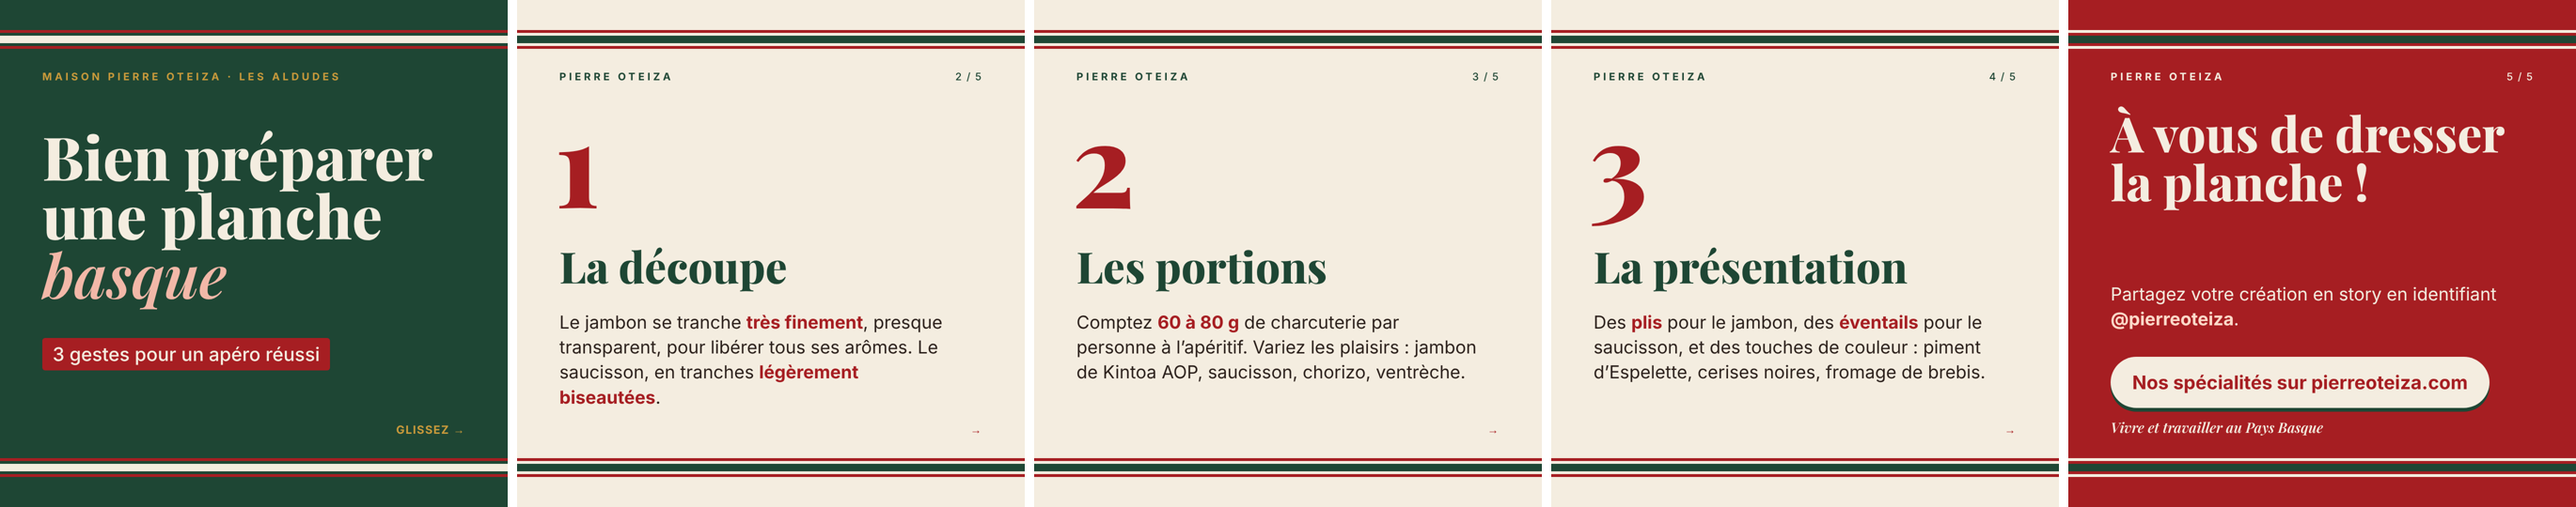
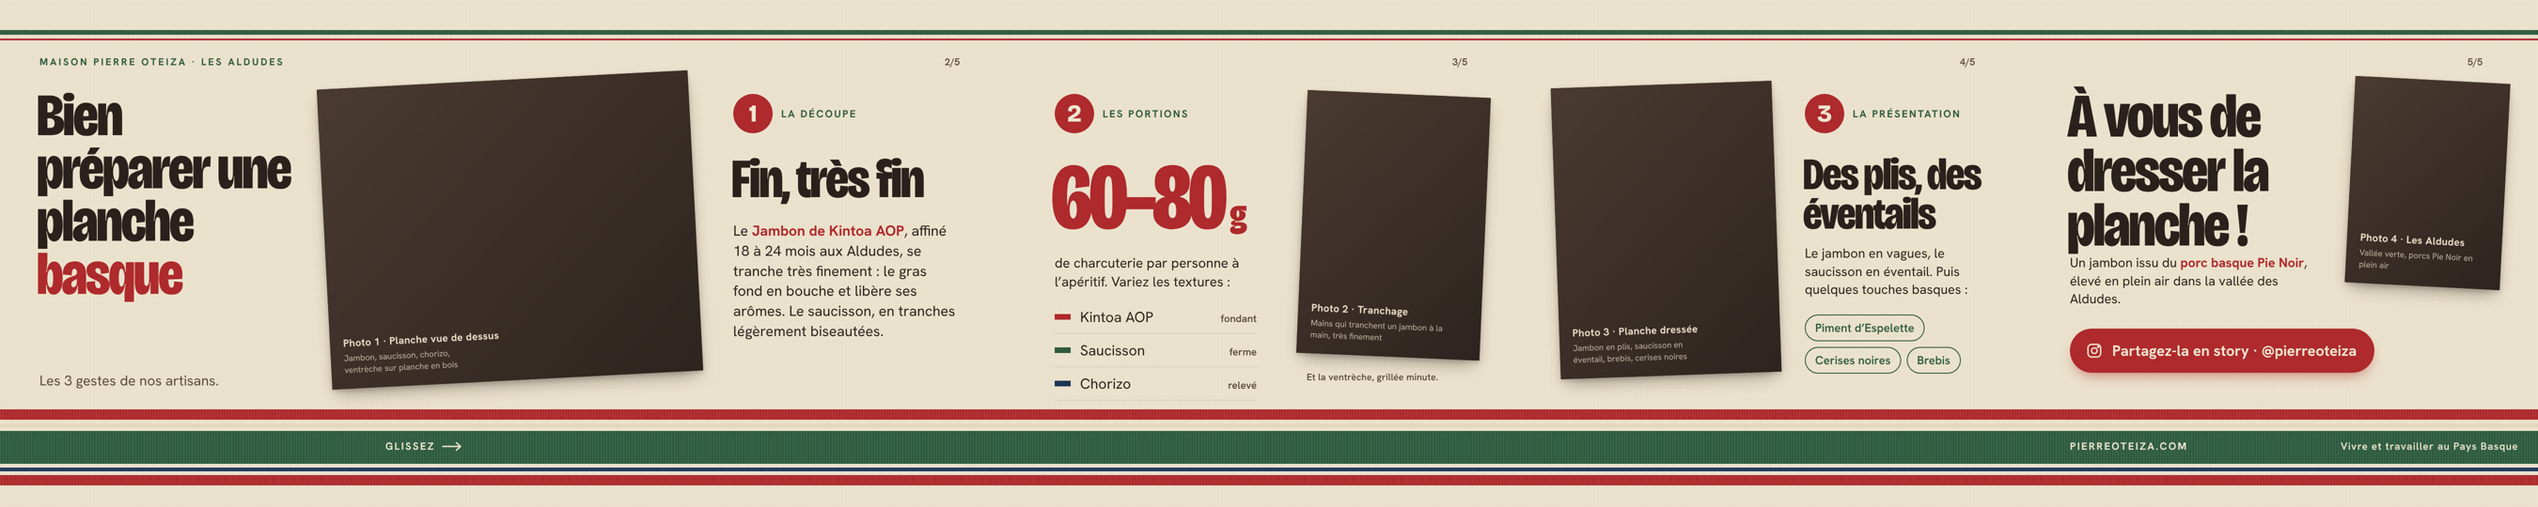
Refait le carrousel Pierre Oteiza : linge basque continu sur 5 slides, texte enrichi, emplacements photo et prompts
Claude-Session: https://claude.ai/code/session_01M4KwiYuPc6C6YeqYRujdKa

diff --git a/oteiza-prototype/carrousel.html b/oteiza-prototype/carrousel.html
@@ -1,89 +1,138 @@
 <!doctype html>
 <html lang="fr"><head><meta charset="utf-8">
-<link href="https://fonts.googleapis.com/css2?family=Playfair+Display:ital,wght@0,600;0,800;1,600&family=Inter:wght@400;500;700&display=swap" rel="stylesheet">
+<title>Carrousel planche basque</title>
+<link href="https://fonts.googleapis.com/css2?family=Bricolage+Grotesque:opsz,wdth,wght@12..96,75..100,400..800&family=Hanken+Grotesk:wght@400;500;600;700&display=swap" rel="stylesheet">
 <style>
-:root{--rouge:#A61E22;--vert:#1E4634;--creme:#F4EDE0;--encre:#2A1F1A;--or:#C99A3B}
+:root{
+  --ecru:#EEE5D0; --ecru-ombre:#E2D6BC;
+  --garance:#AE2A2C; --vert:#2E5B3F; --nuit:#1F3557;
+  --encre:#2B211C; --encre-douce:#5A4A3F;
+}
 *{margin:0;padding:0;box-sizing:border-box}
-body{background:#888}
-.slide{width:1080px;height:1080px;position:relative;overflow:hidden;background:var(--creme);color:var(--encre);font-family:Inter,sans-serif;margin-bottom:20px}
-/* bande toile basque */
-.toile{position:absolute;left:0;right:0;height:56px;background:
- linear-gradient(to bottom,var(--creme) 0 8px,var(--rouge) 8px 14px,var(--creme) 14px 20px,var(--vert) 20px 36px,var(--creme) 36px 42px,var(--rouge) 42px 48px,var(--creme) 48px 56px)}
-.toile.bas{bottom:56px}
-.toile.haut{top:56px}
-.marque{position:absolute;top:150px;left:90px;font-size:22px;letter-spacing:.28em;text-transform:uppercase;font-weight:700;color:var(--vert)}
-.pager{position:absolute;top:150px;right:90px;font-size:22px;font-weight:500;color:var(--vert);letter-spacing:.1em}
-.num{font-family:'Playfair Display',serif;font-weight:800;font-size:250px;line-height:.8;color:var(--rouge);position:absolute;left:80px;top:240px}
-h2{font-family:'Playfair Display',serif;font-weight:800;font-size:92px;line-height:1;color:var(--vert);position:absolute;left:90px;top:520px}
-.txt{position:absolute;left:90px;top:660px;width:860px;font-size:38px;line-height:1.4}
-.txt b{color:var(--rouge)}
-.suite{position:absolute;bottom:150px;right:90px;font-size:24px;font-weight:700;color:var(--rouge);letter-spacing:.08em}
-/* couverture */
-.cover{background:var(--vert);color:var(--creme)}
-.cover .toile{background:linear-gradient(to bottom,var(--vert) 0 8px,var(--rouge) 8px 14px,var(--vert) 14px 20px,var(--creme) 20px 36px,var(--vert) 36px 42px,var(--rouge) 42px 48px,var(--vert) 48px 56px)}
-.cover .marque{color:var(--or)}
-.cover h1{font-family:'Playfair Display',serif;font-weight:800;font-size:128px;line-height:.98;position:absolute;left:90px;top:270px;width:900px}
-.cover h1 em{font-style:italic;font-weight:600;color:#F2B8A8}
-.cover .sous{position:absolute;left:90px;top:720px;font-size:40px;font-weight:500}
-.cover .sous span{display:inline-block;background:var(--rouge);padding:10px 22px;border-radius:6px}
-.cover .suite{color:var(--or)}
+html,body{background:#777}
+::selection{background:var(--garance);color:var(--ecru)}
+
+/* Un seul linge déroulé : 5 slides × 1080 */
+.linge{width:5400px;height:1080px;position:relative;overflow:hidden;color:var(--encre);
+  font-family:'Hanken Grotesk',sans-serif;
+  background:
+    repeating-linear-gradient(0deg,rgba(90,70,50,.05) 0 1px,transparent 1px 4px),
+    repeating-linear-gradient(90deg,rgba(90,70,50,.045) 0 1px,transparent 1px 5px),
+    var(--ecru);}
+
+/* Bandes tissées, continues sur tout le carrousel */
+.bande{position:absolute;left:0;width:5400px}
+.bande::after{content:"";position:absolute;inset:0;
+  background:repeating-linear-gradient(90deg,rgba(255,255,255,.07) 0 2px,transparent 2px 6px)}
+.haut-1{top:64px;height:10px;background:var(--vert)}
+.haut-2{top:82px;height:4px;background:var(--garance)}
+.bas-1{top:872px;height:22px;background:var(--garance)}
+.bas-2{top:902px;height:8px;background:var(--ecru-ombre)}
+.bas-3{top:918px;height:70px;background:var(--vert)}
+.bas-4{top:996px;height:8px;background:var(--nuit)}
+.bas-5{top:1012px;height:22px;background:var(--garance)}
+
+/* Photos posées sur le linge */
+.photo{position:absolute;overflow:hidden;background:#3a2e27;
+  box-shadow:0 18px 36px -12px rgba(43,33,28,.45),0 4px 10px rgba(43,33,28,.18)}
+.photo img{width:100%;height:100%;object-fit:cover;display:block}
+.photo .vide{position:absolute;inset:0;display:flex;flex-direction:column;justify-content:flex-end;padding:28px;
+  background:linear-gradient(135deg,#4a3a30,#2d241f);color:#E9DCC4}
+.photo .vide b{font-weight:700;font-size:22px;letter-spacing:.02em}
+.photo .vide span{font-size:18px;opacity:.75;margin-top:6px;max-width:28ch;line-height:1.35}
+.legende{position:absolute;font-size:20px;font-weight:600;color:var(--encre-douce);letter-spacing:.01em}
+
+/* Typo */
+.titre{position:absolute;font-family:'Bricolage Grotesque',sans-serif;font-weight:800;
+  font-variation-settings:"wdth" 80,"opsz" 96;letter-spacing:-.03em;line-height:.88;color:var(--encre)}
+.titre em{font-style:normal;color:var(--garance)}
+.corps{position:absolute;font-size:33px;line-height:1.38;color:var(--encre)}
+.corps strong{font-weight:700;color:var(--garance)}
+.etape{position:absolute;display:flex;align-items:center;gap:18px}
+.etape .n{width:84px;height:84px;border-radius:50%;background:var(--garance);color:var(--ecru);
+  font-family:'Bricolage Grotesque';font-weight:800;font-size:52px;display:flex;align-items:center;justify-content:center}
+.etape .l{font-weight:700;font-size:22px;letter-spacing:.14em;text-transform:uppercase;color:var(--vert)}
+.signature{position:absolute;top:118px;font-weight:700;font-size:21px;letter-spacing:.2em;text-transform:uppercase;color:var(--vert)}
+.page{position:absolute;top:118px;font-weight:600;font-size:21px;color:var(--encre-douce);font-variant-numeric:tabular-nums}
+
+/* Portions */
+.grammes{position:absolute;font-family:'Bricolage Grotesque';font-weight:800;font-variation-settings:"wdth" 75,"opsz" 96;
+  font-size:250px;letter-spacing:-.04em;line-height:.8;color:var(--garance)}
+.grammes small{font-size:90px;letter-spacing:-.02em}
+.liste{position:absolute;list-style:none}
+.liste li{display:flex;align-items:baseline;gap:20px;font-size:31px;padding:15px 0;border-bottom:1.5px solid rgba(43,33,28,.18)}
+.liste li i{flex:none;width:34px;height:12px;align-self:center;font-style:normal}
+.liste li span{margin-left:auto;font-size:22px;color:var(--encre-douce);font-weight:600}
+
+/* Accompagnements */
+.accomp{position:absolute;display:flex;flex-wrap:wrap;gap:12px}
+.accomp span{font-size:25px;font-weight:600;padding:10px 20px;border-radius:999px;border:2px solid var(--vert);color:var(--vert)}
+
 /* CTA */
-.cta{background:var(--rouge);color:var(--creme)}
-.cta .toile{background:linear-gradient(to bottom,var(--rouge) 0 8px,var(--creme) 8px 14px,var(--rouge) 14px 20px,var(--vert) 20px 36px,var(--rouge) 36px 42px,var(--creme) 42px 48px,var(--rouge) 48px 56px)}
-.cta .marque,.cta .pager{color:var(--creme)}
-.cta h2{color:var(--creme);top:230px;font-size:104px;width:900px}
-.cta .txt{top:600px;font-size:38px}
-.cta .txt b{color:#FFD9C9}
-.bouton{position:absolute;left:90px;top:760px;background:var(--creme);color:var(--rouge);font-weight:700;font-size:40px;padding:30px 46px;border-radius:999px;box-shadow:0 8px 0 var(--vert)}
-.signature{position:absolute;left:90px;bottom:150px;font-family:'Playfair Display',serif;font-style:italic;font-size:30px}
+.cta{position:absolute;display:flex;align-items:center;gap:20px;background:var(--garance);color:var(--ecru);
+  padding:26px 38px 26px 34px;border-radius:999px;font-weight:700;font-size:32px;
+  box-shadow:0 14px 28px -10px rgba(174,42,44,.55)}
+.cta svg{flex:none}
+.swipe{position:absolute;display:flex;align-items:center;gap:14px;font-weight:700;font-size:22px;letter-spacing:.14em;text-transform:uppercase;color:var(--ecru)}
 </style></head><body>
+<div class="linge" id="linge">
+  <div class="bande haut-1"></div><div class="bande haut-2"></div>
+  <div class="bande bas-1"></div><div class="bande bas-2"></div><div class="bande bas-3"></div><div class="bande bas-4"></div><div class="bande bas-5"></div>
 
-<section class="slide cover" id="s1">
- <div class="toile haut"></div>
- <div class="marque">Maison Pierre Oteiza · Les Aldudes</div>
- <h1>Bien préparer une planche <em>basque</em></h1>
- <div class="sous"><span>3 gestes pour un apéro réussi</span></div>
- <div class="suite">GLISSEZ →</div>
- <div class="toile bas"></div>
-</section>
+  <!-- ===== SLIDE 1 : couverture ===== -->
+  <div class="signature" style="left:84px">Maison Pierre Oteiza · Les Aldudes</div>
+  <h1 class="titre" style="left:78px;top:190px;font-size:128px;width:560px">Bien préparer une planche <em>basque</em></h1>
+  <p class="corps" style="left:84px;top:790px;width:560px;font-size:30px;color:var(--encre-douce)">Les 3 gestes de nos artisans.</p>
+  <!-- planche à cheval sur les slides 1 et 2 -->
+  <div class="photo" data-src="img/planche.jpg" style="left:690px;top:170px;width:790px;height:640px;transform:rotate(-3deg)">
+    <div class="vide"><b>Photo 1 · Planche vue de dessus</b><span>Jambon, saucisson, chorizo, ventrèche sur planche en bois</span></div></div>
+  <div class="swipe" style="left:820px;top:936px">Glissez
+    <svg width="44" height="20" viewBox="0 0 44 20" fill="none" stroke="currentColor" stroke-width="3" stroke-linecap="round" stroke-linejoin="round"><path d="M2 10h38M31 2l9 8-9 8"/></svg></div>
 
-<section class="slide" id="s2">
- <div class="toile haut"></div>
- <div class="marque">Pierre Oteiza</div><div class="pager">2 / 5</div>
- <div class="num">1</div>
- <h2>La découpe</h2>
- <p class="txt">Le jambon se tranche <b>très finement</b>, presque transparent, pour libérer tous ses arômes. Le saucisson, en tranches <b>légèrement biseautées</b>.</p>
- <div class="suite">→</div>
- <div class="toile bas"></div>
-</section>
+  <!-- ===== SLIDE 2 : découpe ===== -->
+  <div class="page" style="left:2010px">2/5</div>
+  <div class="etape" style="left:1560px;top:200px"><div class="n">1</div><div class="l">La découpe</div></div>
+  <h2 class="titre" style="left:1556px;top:330px;font-size:118px;width:520px">Fin, très fin</h2>
+  <p class="corps" style="left:1560px;top:470px;width:480px;font-size:31px">Le <strong>Jambon de Kintoa AOP</strong>, affiné 18 à 24 mois aux Aldudes, se tranche très finement : le gras fond en bouche et libère ses arômes. Le saucisson, en tranches légèrement biseautées.</p>
 
-<section class="slide" id="s3">
- <div class="toile haut"></div>
- <div class="marque">Pierre Oteiza</div><div class="pager">3 / 5</div>
- <div class="num">2</div>
- <h2>Les portions</h2>
- <p class="txt">Comptez <b>60 à 80 g</b> de charcuterie par personne à l’apéritif. Variez les plaisirs : jambon de Kintoa AOP, saucisson, chorizo, ventrèche.</p>
- <div class="suite">→</div>
- <div class="toile bas"></div>
-</section>
+  <!-- ===== SLIDE 3 : portions ===== -->
+  <div class="page" style="left:3090px">3/5</div>
+  <div class="etape" style="left:2244px;top:200px"><div class="n">2</div><div class="l">Les portions</div></div>
+  <div class="grammes" style="left:2236px;top:340px;font-size:200px">60–80<small> g</small></div>
+  <p class="corps" style="left:2244px;top:540px;width:420px;font-size:29px">de charcuterie par personne à l’apéritif. Variez les textures :</p>
+  <ul class="liste" style="left:2244px;top:640px;width:430px">
+    <li><i style="background:var(--garance)"></i>Kintoa AOP<span>fondant</span></li>
+    <li><i style="background:var(--vert)"></i>Saucisson<span>ferme</span></li>
+    <li><i style="background:var(--nuit)"></i>Chorizo<span>relevé</span></li>
+  </ul>
+  <div class="photo" data-src="img/tranches.jpg" style="left:2770px;top:200px;width:390px;height:560px;transform:rotate(2.5deg)">
+    <div class="vide"><b>Photo 2 · Tranchage</b><span>Mains qui tranchent un jambon à la main, très finement</span></div></div>
+  <div class="legende" style="left:2780px;top:790px">Et la ventrèche, grillée minute.</div>
 
-<section class="slide" id="s4">
- <div class="toile haut"></div>
- <div class="marque">Pierre Oteiza</div><div class="pager">4 / 5</div>
- <div class="num">3</div>
- <h2>La présentation</h2>
- <p class="txt">Des <b>plis</b> pour le jambon, des <b>éventails</b> pour le saucisson, et des touches de couleur : piment d’Espelette, cerises noires, fromage de brebis.</p>
- <div class="suite">→</div>
- <div class="toile bas"></div>
-</section>
+  <!-- ===== SLIDE 4 : présentation ===== -->
+  <div class="page" style="left:4170px">4/5</div>
+  <div class="photo" data-src="img/presentation.jpg" style="left:3310px;top:180px;width:470px;height:620px;transform:rotate(-2deg)">
+    <div class="vide"><b>Photo 3 · Planche dressée</b><span>Jambon en plis, saucisson en éventail, brebis, cerises noires</span></div></div>
+  <div class="etape" style="left:3840px;top:200px"><div class="n">3</div><div class="l">La présentation</div></div>
+  <h2 class="titre" style="left:3836px;top:330px;font-size:96px;width:440px">Des plis, des éventails</h2>
+  <p class="corps" style="left:3840px;top:520px;width:420px;font-size:28px">Le jambon en vagues, le saucisson en éventail. Puis quelques touches basques :</p>
+  <div class="accomp" style="left:3840px;top:670px;width:440px">
+    <span>Piment d’Espelette</span><span>Cerises noires</span><span>Brebis</span></div>
 
-<section class="slide cta" id="s5">
- <div class="toile haut"></div>
- <div class="marque">Pierre Oteiza</div><div class="pager">5 / 5</div>
- <h2>À vous de dresser la planche !</h2>
- <p class="txt">Partagez votre création en story en identifiant <b>@pierreoteiza</b>.</p>
- <div class="bouton">Nos spécialités sur pierreoteiza.com</div>
- <div class="signature">Vivre et travailler au Pays Basque</div>
- <div class="toile bas"></div>
-</section>
+  <!-- ===== SLIDE 5 : CTA ===== -->
+  <div class="page" style="left:5250px">5/5</div>
+  <h2 class="titre" style="left:4398px;top:190px;font-size:132px;width:600px">À vous de dresser la planche&nbsp;!</h2>
+  <p class="corps" style="left:4404px;top:540px;width:520px;font-size:28px">Un jambon issu du <strong>porc basque Pie Noir</strong>, élevé en plein air dans la vallée des Aldudes.</p>
+  <div class="cta" style="left:4404px;top:700px">
+    <svg width="36" height="36" viewBox="0 0 24 24" fill="none" stroke="currentColor" stroke-width="2" stroke-linecap="round" stroke-linejoin="round"><rect x="3" y="3" width="18" height="18" rx="5"/><circle cx="12" cy="12" r="4"/><circle cx="17.5" cy="6.5" r=".8" fill="currentColor"/></svg>
+    Partagez-la en story · @pierreoteiza</div>
+  <div class="photo" data-src="img/aldudes.jpg" style="left:5000px;top:170px;width:330px;height:440px;transform:rotate(3deg)">
+    <div class="vide"><b>Photo 4 · Les Aldudes</b><span>Vallée verte, porcs Pie Noir en plein air</span></div></div>
+  <div class="swipe" style="left:4404px;top:936px;color:var(--ecru)">pierreoteiza.com</div>
+  <div class="swipe" style="left:4980px;top:936px;color:var(--ecru);letter-spacing:.06em;text-transform:none;font-weight:600">Vivre et travailler au Pays Basque</div>
+</div>
+<script>
+document.querySelectorAll('.photo[data-src]').forEach(p=>{
+  const img=new Image();img.onload=()=>{p.innerHTML='';p.appendChild(img)};img.src=p.dataset.src;});
+</script>
 </body></html>

diff --git a/oteiza-prototype/fiche-prototype.md b/oteiza-prototype/fiche-prototype.md
@@ -2,24 +2,43 @@
 
 **Publication choisie :** carrousel Instagram « Bien préparer une planche basque »
 **Calendrier :** avril · Pilier 1 « Informer » · thème Recette (conseils de préparation)
-**Format :** post carré 1080×1080, 5 slides (`slide-1.png` à `slide-5.png`)
+**Format :** post carré 1080×1080, 5 slides (`slide-1.png` à `slide-5.png`, et `panorama.png` pour la vue d'ensemble)
 **Cible :** jeunes actifs urbains de 25 à 40 ans, amateurs de gastronomie
 
 ## Pourquoi cette publication ?
 - Elle **informe** sans vendre (respect de la règle 80/20) : on transmet un savoir-faire concret.
-- Elle modernise l'image de la Maison avec un format actuel (carrousel « tuto », très enregistré et partagé), sans trahir son ADN artisanal.
+- Elle modernise l'image de la Maison avec un format actuel (le carrousel « tuto » est très enregistré et partagé), sans trahir son ADN : l'origine (Kintoa AOP, porc basque Pie Noir, vallée des Aldudes) est racontée au fil des gestes.
 - Elle prépare la publication « Engager » de mai, « À vous de dresser la planche ».
+
+## Le concept : un linge basque qu'on déroule
+Les 5 slides forment **un seul torchon basque**. Les bandes rouge, verte et bleue courent sans interruption d'une slide à l'autre, donc on a l'impression de dérouler le linge en swipant. La photo de la planche est posée **à cheval sur les slides 1 et 2**, ce qui donne envie de faire glisser.
+
+| Slide | Contenu |
+|---|---|
+| 1 | Titre « Bien préparer une planche basque », grande photo de planche qui déborde, « Glissez → » |
+| 2 | ① La découpe : le Kintoa AOP, affiné 18 à 24 mois aux Aldudes, se tranche très finement |
+| 3 | ② Les portions : 60 à 80 g par personne et 3 textures (Kintoa fondant, saucisson ferme, chorizo relevé) |
+| 4 | ③ La présentation : plis, éventails et accompagnements basques (piment d'Espelette, cerises noires, brebis) |
+| 5 | CTA : « À vous de dresser la planche ! », porc Pie Noir élevé en plein air, bouton « Partagez-la en story · @pierreoteiza », pierreoteiza.com |
 
 ## Règles de composition appliquées
 | Règle | Application |
 |---|---|
-| **Hiérarchie visuelle** | 1 grand chiffre → 1 titre → 3 lignes de texte maximum. L'œil lit dans l'ordre, une idée par slide. |
-| **Cohérence des couleurs** | 3 couleurs seulement : rouge basque `#A61E22`, vert sombre `#1E4634`, crème `#F4EDE0`. La couverture est verte, les slides de contenu crème et le CTA rouge. |
-| **Identité de marque** | Bandes inspirées du **linge basque** en haut et en bas de chaque slide, comme fil conducteur. Signature « Vivre et travailler au Pays Basque ». |
-| **Lisibilité** | Titres en serif (Playfair Display), qui donnent un caractère artisanal et premium, et texte en sans-serif (Inter) de 38 px, lisible sur mobile. Contraste fort entre le fond et le texte. Les mots-clés sont en gras rouge. |
-| **CTA visible** | La dernière slide est rouge pour se démarquer, avec un bouton crème « Nos spécialités sur pierreoteiza.com » et une invitation à identifier @pierreoteiza en story. « GLISSEZ → » en couverture incite à faire défiler. |
+| **Hiérarchie visuelle** | Sur chaque slide : l'étape numérotée, puis un titre très gras et serré, puis 3 à 5 lignes de texte. Une idée par slide. |
+| **Cohérence des couleurs** | Les couleurs du linge basque : écru, rouge garance `#AE2A2C`, vert `#2E5B3F` et bleu nuit `#1F3557`. Le rouge sert à l'accent (chiffres, mots-clés, CTA). |
+| **Identité de marque** | Le linge basque comme matière, avec une trame tissée en fond. Signature « Vivre et travailler au Pays Basque ». |
+| **Lisibilité** | Titres en Bricolage Grotesque très gras, texte en Hanken Grotesk de 28 à 33 px, lisible sur mobile. Texte foncé sur fond écru, avec un fort contraste. |
+| **CTA visible** | Un bouton rouge plein avec une icône Instagram sur la dernière slide. |
+
+## Photos à insérer
+Les emplacements photo sont prévus. Il suffit de déposer les images dans `img/` avec ces noms, puis de relancer le rendu (ou de me les envoyer). Les prompts suivants servent à les générer avec ChatGPT, Gemini ou Canva :
+
+1. **`img/planche.jpg`** (paysage 5:4) : *Photographie culinaire vue de dessus, planche en bois ancienne avec du jambon sec basque tranché très finement et plié en vagues, saucisson en éventail, chorizo, ventrèche, fromage de brebis, confiture de cerises noires, posée sur un torchon basque rayé rouge et vert. Lumière naturelle douce, tons chauds, aucune marque ni texte.*
+2. **`img/tranches.jpg`** (portrait 3:4) : *Gros plan sur les mains d'un artisan charcutier qui tranche à la main un jambon sec posé sur un support en bois, tranches presque transparentes, atelier rustique, lumière latérale chaude, aucune marque.*
+3. **`img/presentation.jpg`** (portrait 3:4) : *Détail d'une planche apéritive basque dressée : jambon en plis, rondelles de saucisson en éventail, piment d'Espelette, cerises noires, brebis, sur bois, vue en plongée à 45°, ambiance conviviale, aucune marque.*
+4. **`img/aldudes.jpg`** (portrait 3:4) : *Vallée verdoyante des Pyrénées basques au printemps, prairies en pente, cochons basques noirs et roses élevés en plein air, petit village aux maisons blanches à volets rouges, lumière du matin.*
 
 ## Légende Instagram proposée
 > Une belle planche, ça se prépare 🔪 Découpe, portions, présentation : les 3 gestes de nos artisans pour un apéro réussi.
-> Enregistrez ce post pour votre prochain apéro et montrez-nous votre planche en story en identifiant @pierreoteiza ✨
+> Enregistrez ce post pour votre prochain apéro, et montrez-nous votre planche en story en identifiant @pierreoteiza ✨
 > #PierreOteiza #PaysBasque #Aldudes #Kintoa #PlancheApero #ApéroBasque #Charcuterie #Terroir

diff --git a/PRODUCT.md b/PRODUCT.md
@@ -1,0 +1,41 @@
+# Product
+
+<!-- impeccable:product-schema 1 -->
+
+## Platform
+
+web
+
+## Stack
+
+Static HTML/CSS rendered to PNG with Playwright (delegated: social media assets, no app).
+
+## Users
+
+Students' client case: Maison Pierre Oteiza's social media audience. Primary target to win: urban 25-40 year-olds who love food and care about origin and traceability. Existing loyal base: 35-65 gastronomy lovers, Basque Country locals, tourists.
+
+## Product Purpose
+
+Maison Pierre Oteiza (Les Aldudes, Pays Basque, founded 1987 by Pierre and Catherine Oteiza; son Frantxoa joined) makes and sells artisanal Basque charcuterie. The communication goal: modernise the brand's voice and grow digital visibility with a younger generation without losing authenticity, artisanal know-how and territorial roots.
+
+## Positioning
+
+Premium Basque gastronomic house: exceptional product × Basque terroir × human story. Pierre Oteiza helped save the Basque Pie Noir pig breed from extinction (late 1980s); the Jambon de Kintoa obtained AOP status in 2019 and is cured 18 to 24 months in the collective drying room of the Aldudes valley. Pigs are raised outdoors.
+
+## Operating Context
+
+Instagram carousel posts (square 1080×1080) from the editorial calendar (pillars: Informer, Inspirer, Engager). Shops in Les Aldudes, Ainhoa, Saint-Jean-de-Luz, Capbreton, Biarritz, Bayonne, Bordeaux, Paris; e-commerce at pierreoteiza.com.
+
+## Brand Commitments
+
+Slogan: « Vivre et travailler au Pays Basque ». Products: Jambon de Kintoa AOP, Jambon de la Vallée des Aldudes, Jambon de Bayonne IGP, saucisson, chorizo, ventrèche, conserves.
+
+## Evidence on Hand
+
+Brief and corrected case study (uploaded .odt). No real photography available in this environment; image generation tools are disabled. Any photo slot must be filled by the user; never fabricate prices, awards or claims beyond the brief.
+
+## Product Principles
+
+- Tell the story, not just the product: territory, breed, people, gestures.
+- Modern format, authentic substance: real people and real gestures over trends.
+- Inform before selling (80/20 rule).

diff --git a/.impeccable/surfaces/oteiza-prototype-carrousel-html.md b/.impeccable/surfaces/oteiza-prototype-carrousel-html.md
@@ -1,0 +1,18 @@
+---
+version: 1
+slug: "oteiza-prototype-carrousel-html"
+primary_target: "oteiza-prototype/carrousel.html"
+related_targets: []
+---
+
+# Surface: carrousel Instagram « Bien préparer une planche basque »
+
+Mode: Persuade. Audience: urbains 25-40 ans amateurs de gastronomie. Action: enregistrer/partager, dresser sa planche et identifier la Maison en story ; découvrir le Kintoa AOP sur pierreoteiza.com. Constraints: 5 slides carrées 1080×1080, lisibles sur mobile, pilier « Informer » (pas de promo agressive). Photos: emplacements à remplir par l'utilisatrice/utilisateur (aucune génération d'image disponible).
+
+## Direction contract
+THESIS: Le carrousel est un seul linge basque déroulé : on swipe le long du torchon, et la planche est posée dessus. Refuse le template « photo plein cadre + titre » et les slides plates indépendantes.
+OWN-WORLD: Fond écru tissé, bandes tissées rouge garance, vert et bleu nuit qui courent sans rupture d'une slide à l'autre ; display Bricolage Grotesque très gras et serré, texte Hanken Grotesk ; photos posées comme des objets sur le tissu, coins nets, ombre portée douce.
+STORY: Comprendre 3 gestes concrets (découpe, portions, présentation), apprendre l'origine (Kintoa AOP, porc Pie Noir, Aldudes), puis dresser sa planche et la partager.
+FIRST VIEWPORT: Slide 1 : titre énorme en haut à gauche sur l'écru, bande rouge+verte large en bas ; photo de planche vue de dessus qui déborde sur le bord droit et continue sur la slide 2 (incitation au swipe).
+FORM: Linge basque, candidat 1 de ma liste (choix de l'utilisatrice/utilisateur, pick), seed:2266f65038fb647f
+FINISH: unreviewed and undocumented is unfinished; this build ends with the finish review, the verdict, DESIGN.md, and every shipping raster carrying its provenance
